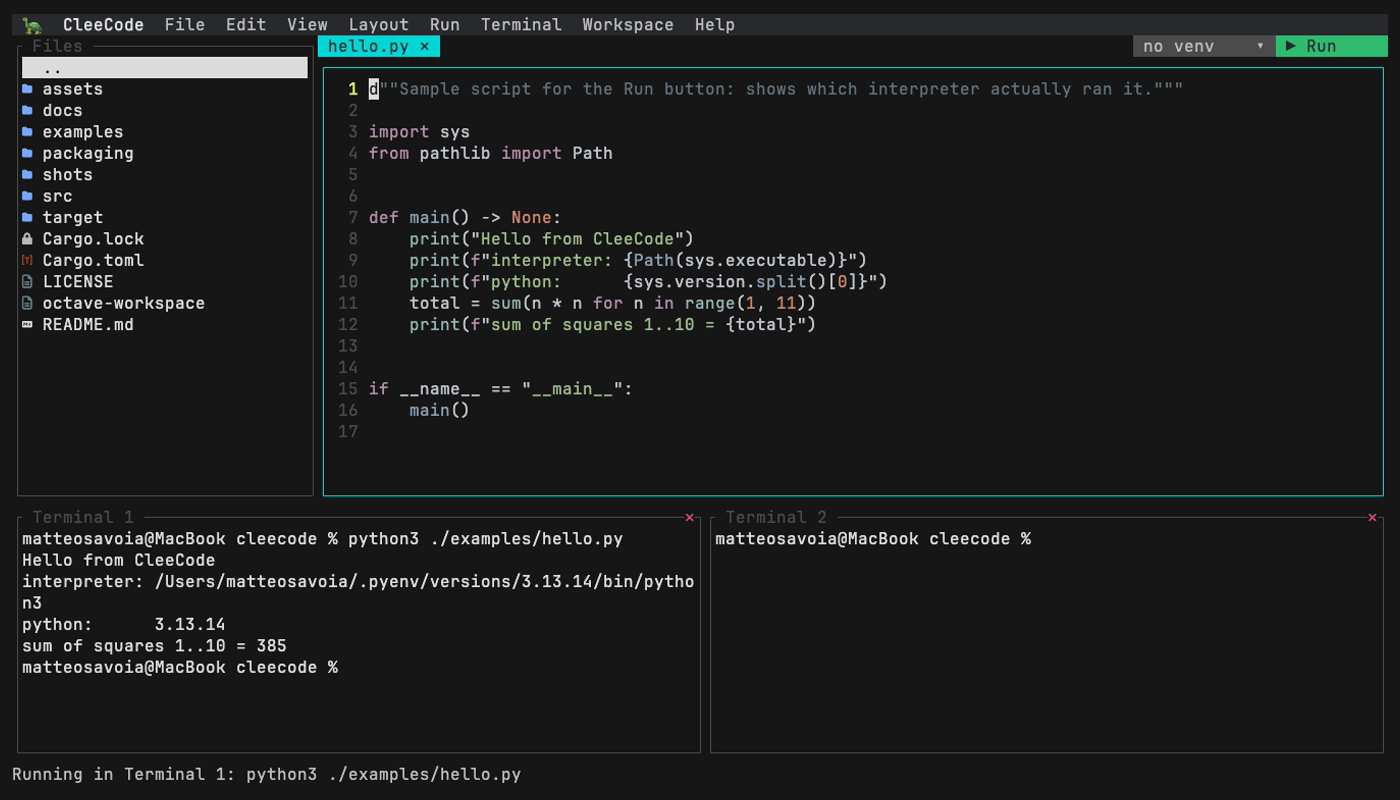
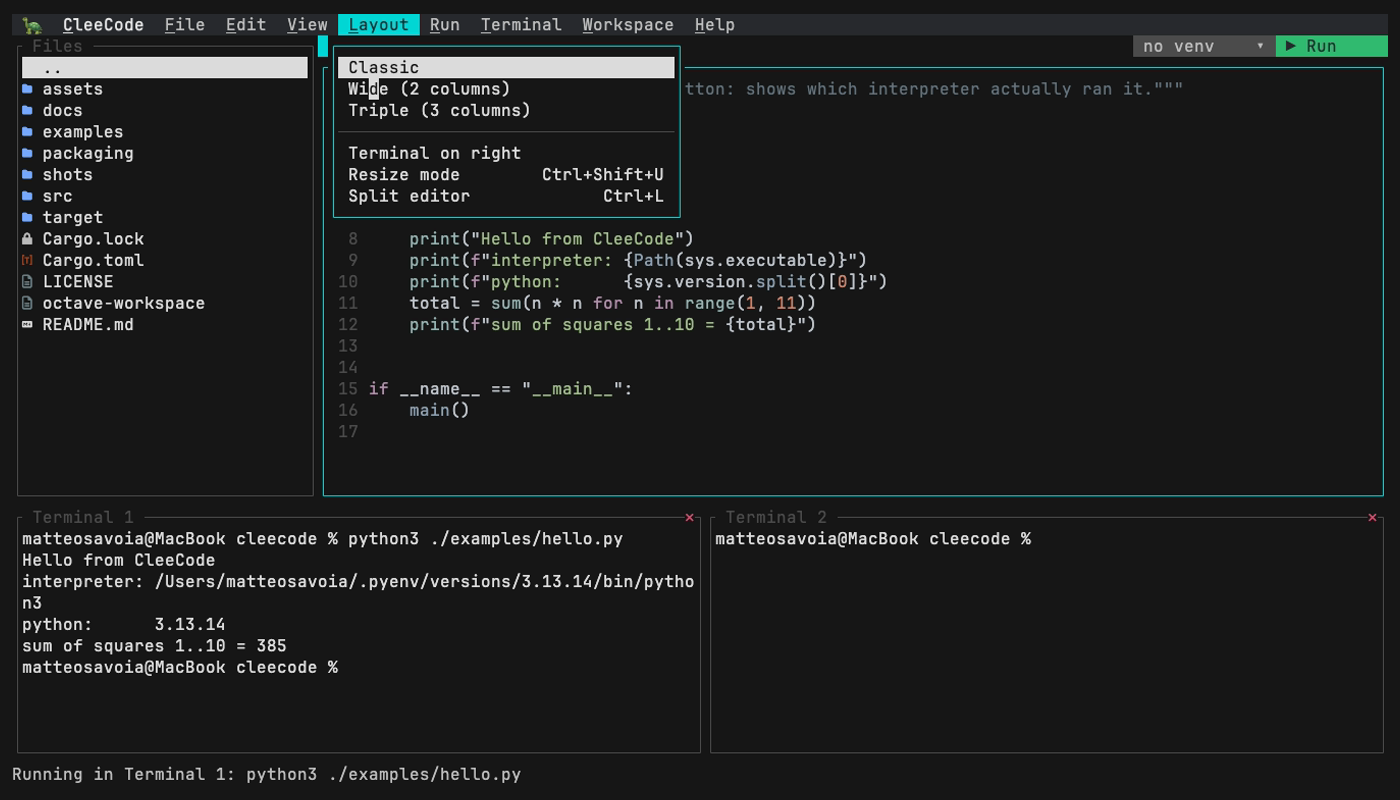
0.4.1: Run stays Run on a picture
Refresh had taken over the button on every preview tab. On a picture it
had nothing to do — the file is the picture — while taking away the one
thing that was useful there: the run command, which shows the image in a
terminal pane with chafa. Refresh now appears only where a preview is
generated and could come out different: a PDF page, or markdown being
typed into.

The README leads with how to install it now, and the feature tour follows
rather than standing between the demo and the install.

The screenshots no longer go through tmux, which had stopped delivering
keys to the application, and there is deliberately none of an image or PDF
preview: vhs has no graphics protocol, so such a shot would show the
half-block fallback while claiming to show the feature.

Changed region(s): [[0.215, 0.0, 0.4914, 0.2812]]

diff --git a/README.md b/README.md
@@ -1,20 +1,109 @@
 # CleeCode 🐢
 
-A terminal IDE written in Rust: a `micro`-style editor with a file tree sidebar, integrated
-terminals, syntax highlighting, and a classic drop-down menu bar. No mouse required, but it's
-there if you want it.
+An editor, a file tree and real terminals in one window. Written in Rust, driven from the
+keyboard, with the mouse as an alternative rather than the only way.
 
 By **Matteo Savoia** ([msavox](https://github.com/msavox)).
 
 ![CleeCode in action](docs/demo.gif)
 
-*Recorded from [`docs/demo.tape`](docs/demo.tape); the stills come from
-[`docs/shots.tape`](docs/shots.tape). Both replay a fixed script, so they can be re-made after a
-UI change instead of re-shot by hand.*
+## Installing
+
+### macOS and Linux — Homebrew
+
+```bash
+brew tap msavox/clee
+brew trust msavox/clee
+brew install clee
+```
+
+The `brew trust` step is required, not a formality: a formula is Ruby code Homebrew executes
+locally, so recent versions refuse to load one from a third-party tap until you trust its
+source — tapping alone doesn't grant that. Without it you get `Refusing to load formula
+msavox/clee/clee from untrusted tap`.
+
+The formula builds from source (well under a minute on macOS; longer on Linux, where it also
+pulls `libxcb`). [Homebrew on Linux](https://docs.brew.sh/Homebrew-on-Linux) uses the same tap
+and CI verifies that install on Ubuntu, but only the *install* is tested.
+
+### Prebuilt binaries
+
+macOS arm64/x86_64 and x86_64 Linux and Windows builds are attached to each
+[release](https://github.com/msavox/cleecode/releases). Outside macOS they're experimental: CI
+checks they start, nothing more. The Linux binary needs glibc and libxcb — install `libxcb1`
+(Debian/Ubuntu) or `libxcb` (Fedora/Arch) if it fails to start. For Alpine/musl, build from
+source.
+
+### Optional extras
+
+Previews reach for a few outside tools. None is required — without them CleeCode shows less
+rather than failing, and says so in the tab instead of leaving it blank.
+
+```bash
+brew install poppler        # PDF pages (ghostscript works too)
+brew install pandoc typst   # Markdown as a real document, pictures and all
+brew install chafa          # a picture inside a terminal pane
+```
+
+Real pixels also need a terminal with a graphics protocol — kitty, iTerm2, Ghostty, WezTerm.
+Anywhere else, pictures fall back to coloured half-blocks and Markdown to styled text.
+
+### From source
+
+Needs a [Rust toolchain](https://rustup.rs) 1.85+ (edition 2024). On Linux the clipboard also
+needs the X11/xcb headers; on Windows, the MSVC toolchain plus *Desktop development with C++*.
+
+```bash
+# Debian/Ubuntu
+sudo apt install build-essential pkg-config libxcb1-dev libxcb-render0-dev libxcb-shape0-dev libxcb-xfixes0-dev
+# Fedora
+sudo dnf install gcc pkgconf-pkg-config libxcb-devel
+# Arch
+sudo pacman -S base-devel libxcb
+
+cargo install --locked --git https://github.com/msavox/cleecode
+```
+
+That puts `clee` in `~/.cargo/bin` (`%USERPROFILE%\.cargo\bin`), so make sure it's on your
+`PATH`.
+
+### From a clone
+
+```bash
+cargo build --release
+./target/release/clee              # the last project, its open files and your layout
+./target/release/clee src/main.rs  # current directory, with a file pre-opened
+./target/release/clee ./some-dir   # that directory as the project root
+./target/release/clee -w work      # open the saved workspace called "work"
+./target/release/clee -w           # list the saved workspaces
+./target/release/clee -e notes.md  # just that file, everything else hidden
+./target/release/clee --help       # usage, --version, --install-font
+```
+
+An argument skips the startup splash; the splash only shows on a bare `clee` or with `-w`,
+where it names the workspace being opened.
+
+### Nerd Font icons
+
+The file tree's icons need a [Nerd Font](https://www.nerdfonts.com/). CleeCode bundles
+JetBrainsMono Nerd Font Mono and can install it:
+
+```bash
+./target/release/clee --install-font
+```
+
+It copies the font into your per-user font directory (`~/Library/Fonts`,
+`~/.local/share/fonts`, or `%LOCALAPPDATA%\Microsoft\Windows\Fonts`), points Ghostty at it if
+present on macOS/Linux, and registers it on Windows. Restart your terminal afterwards — or
+just point your terminal at a Nerd Font you already have.
+
+## What it does
 
 ![CleeCode main view](docs/screenshots/main.png)
 
-## What it does
+*The demo and the stills are replayed from [`docs/demo.tape`](docs/demo.tape) and
+[`docs/shots.tape`](docs/shots.tape), so they are re-made after a UI change rather than re-shot
+by hand and left to go stale.*
 
 ### Editing
 
@@ -110,96 +199,6 @@ CleeCode hosts long-running shells, so a crash costing you an `ssh` session or a
 the worst thing it could do. An internal failure is contained and reported in the status line
 rather than ending the process: a broken terminal costs you that terminal, at most. Details go to
 `~/.config/cleecode/panic.log`.
-
-## Installing
-
-### macOS and Linux — Homebrew
-
-```bash
-brew tap msavox/clee
-brew trust msavox/clee
-brew install clee
-```
-
-The `brew trust` step is required, not a formality: a formula is Ruby code Homebrew executes
-locally, so recent versions refuse to load one from a third-party tap until you trust its
-source — tapping alone doesn't grant that. Without it you get `Refusing to load formula
-msavox/clee/clee from untrusted tap`.
-
-The formula builds from source (well under a minute on macOS; longer on Linux, where it also
-pulls `libxcb`). [Homebrew on Linux](https://docs.brew.sh/Homebrew-on-Linux) uses the same tap
-and CI verifies that install on Ubuntu, but only the *install* is tested.
-
-### Prebuilt binaries
-
-macOS arm64/x86_64 and x86_64 Linux and Windows builds are attached to each
-[release](https://github.com/msavox/cleecode/releases). Outside macOS they're experimental: CI
-checks they start, nothing more. The Linux binary needs glibc and libxcb — install `libxcb1`
-(Debian/Ubuntu) or `libxcb` (Fedora/Arch) if it fails to start. For Alpine/musl, build from
-source.
-
-### Optional extras
-
-Previews reach for a few outside tools. None is required — without them CleeCode shows less
-rather than failing, and says so in the tab instead of leaving it blank.
-
-```bash
-brew install poppler        # PDF pages (ghostscript works too)
-brew install pandoc typst   # Markdown as a real document, pictures and all
-brew install chafa          # a picture inside a terminal pane
-```
-
-Real pixels also need a terminal with a graphics protocol — kitty, iTerm2, Ghostty, WezTerm.
-Anywhere else, pictures fall back to coloured half-blocks and Markdown to styled text.
-
-### From source
-
-Needs a [Rust toolchain](https://rustup.rs) 1.85+ (edition 2024). On Linux the clipboard also
-needs the X11/xcb headers; on Windows, the MSVC toolchain plus *Desktop development with C++*.
-
-```bash
-# Debian/Ubuntu
-sudo apt install build-essential pkg-config libxcb1-dev libxcb-render0-dev libxcb-shape0-dev libxcb-xfixes0-dev
-# Fedora
-sudo dnf install gcc pkgconf-pkg-config libxcb-devel
-# Arch
-sudo pacman -S base-devel libxcb
-
-cargo install --locked --git https://github.com/msavox/cleecode
-```
-
-That puts `clee` in `~/.cargo/bin` (`%USERPROFILE%\.cargo\bin`), so make sure it's on your
-`PATH`.
-
-### From a clone
-
-```bash
-cargo build --release
-./target/release/clee              # the last project, its open files and your layout
-./target/release/clee src/main.rs  # current directory, with a file pre-opened
-./target/release/clee ./some-dir   # that directory as the project root
-./target/release/clee -w work      # open the saved workspace called "work"
-./target/release/clee -w           # list the saved workspaces
-./target/release/clee -e notes.md  # just that file, everything else hidden
-./target/release/clee --help       # usage, --version, --install-font
-```
-
-An argument skips the startup splash; the splash only shows on a bare `clee` or with `-w`,
-where it names the workspace being opened.
-
-### Nerd Font icons
-
-The file tree's icons need a [Nerd Font](https://www.nerdfonts.com/). CleeCode bundles
-JetBrainsMono Nerd Font Mono and can install it:
-
-```bash
-./target/release/clee --install-font
-```
-
-It copies the font into your per-user font directory (`~/Library/Fonts`,
-`~/.local/share/fonts`, or `%LOCALAPPDATA%\Microsoft\Windows\Fonts`), points Ghostty at it if
-present on macOS/Linux, and registers it on Windows. Restart your terminal afterwards — or
-just point your terminal at a Nerd Font you already have.
 
 ## Key bindings
 
